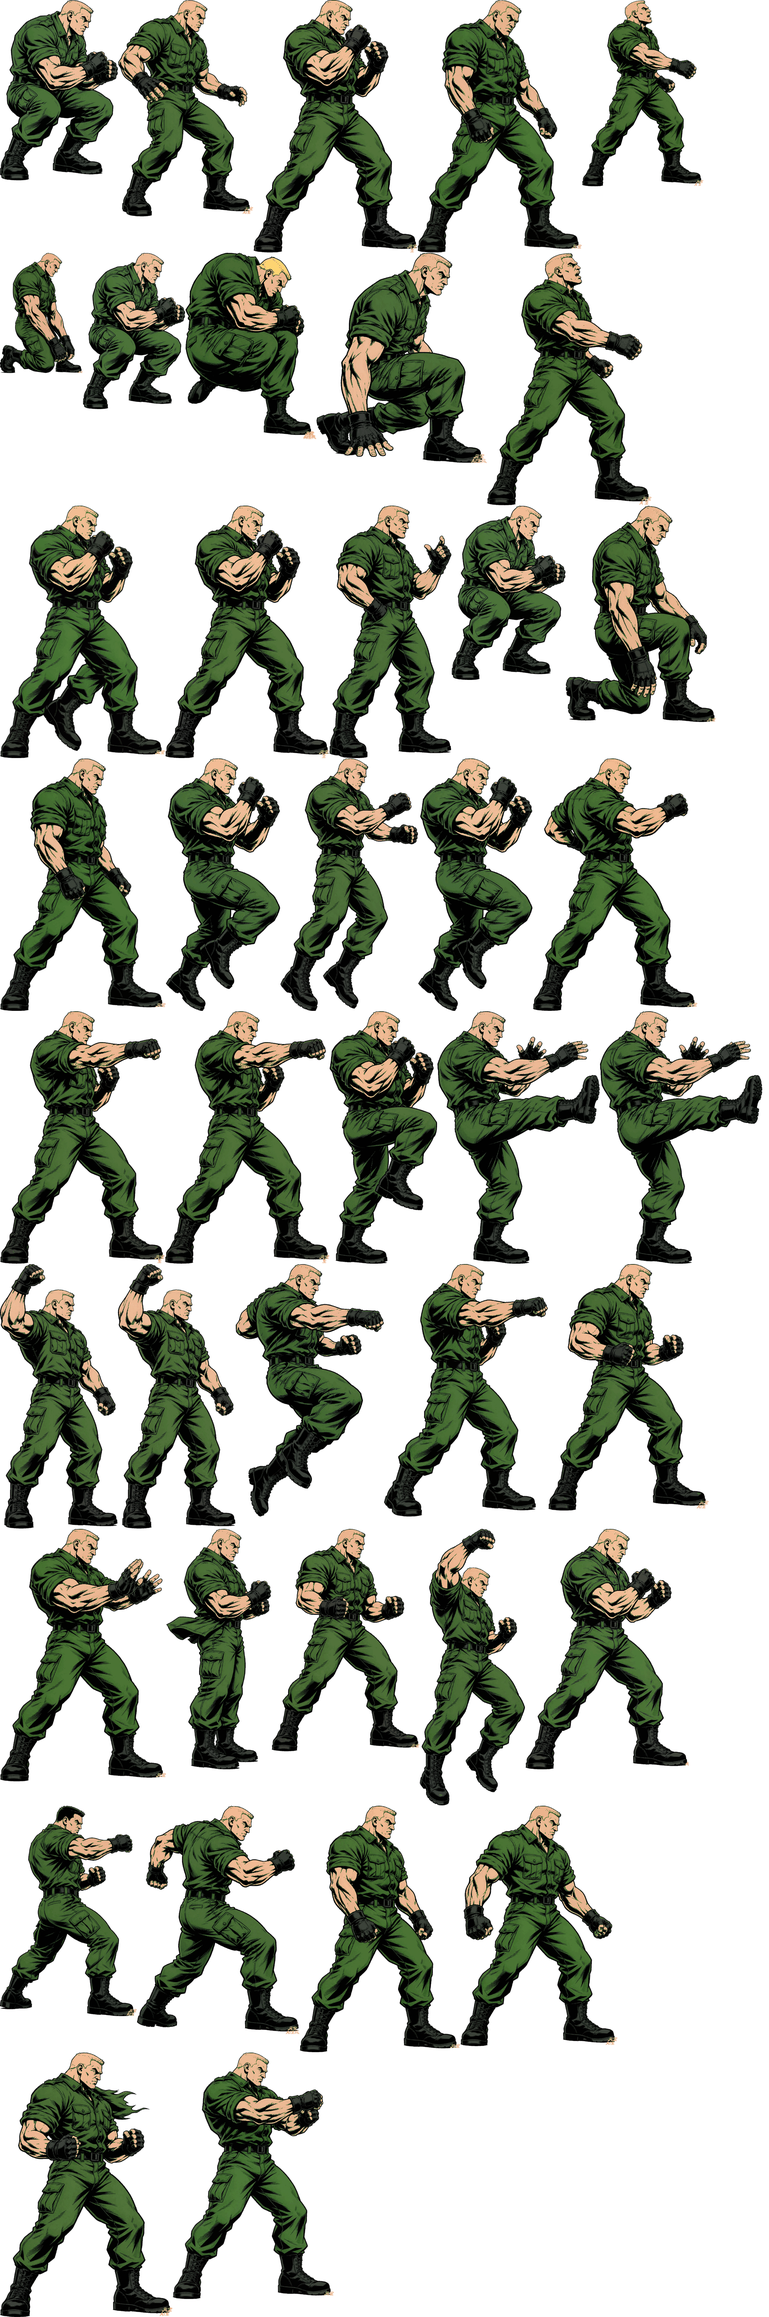
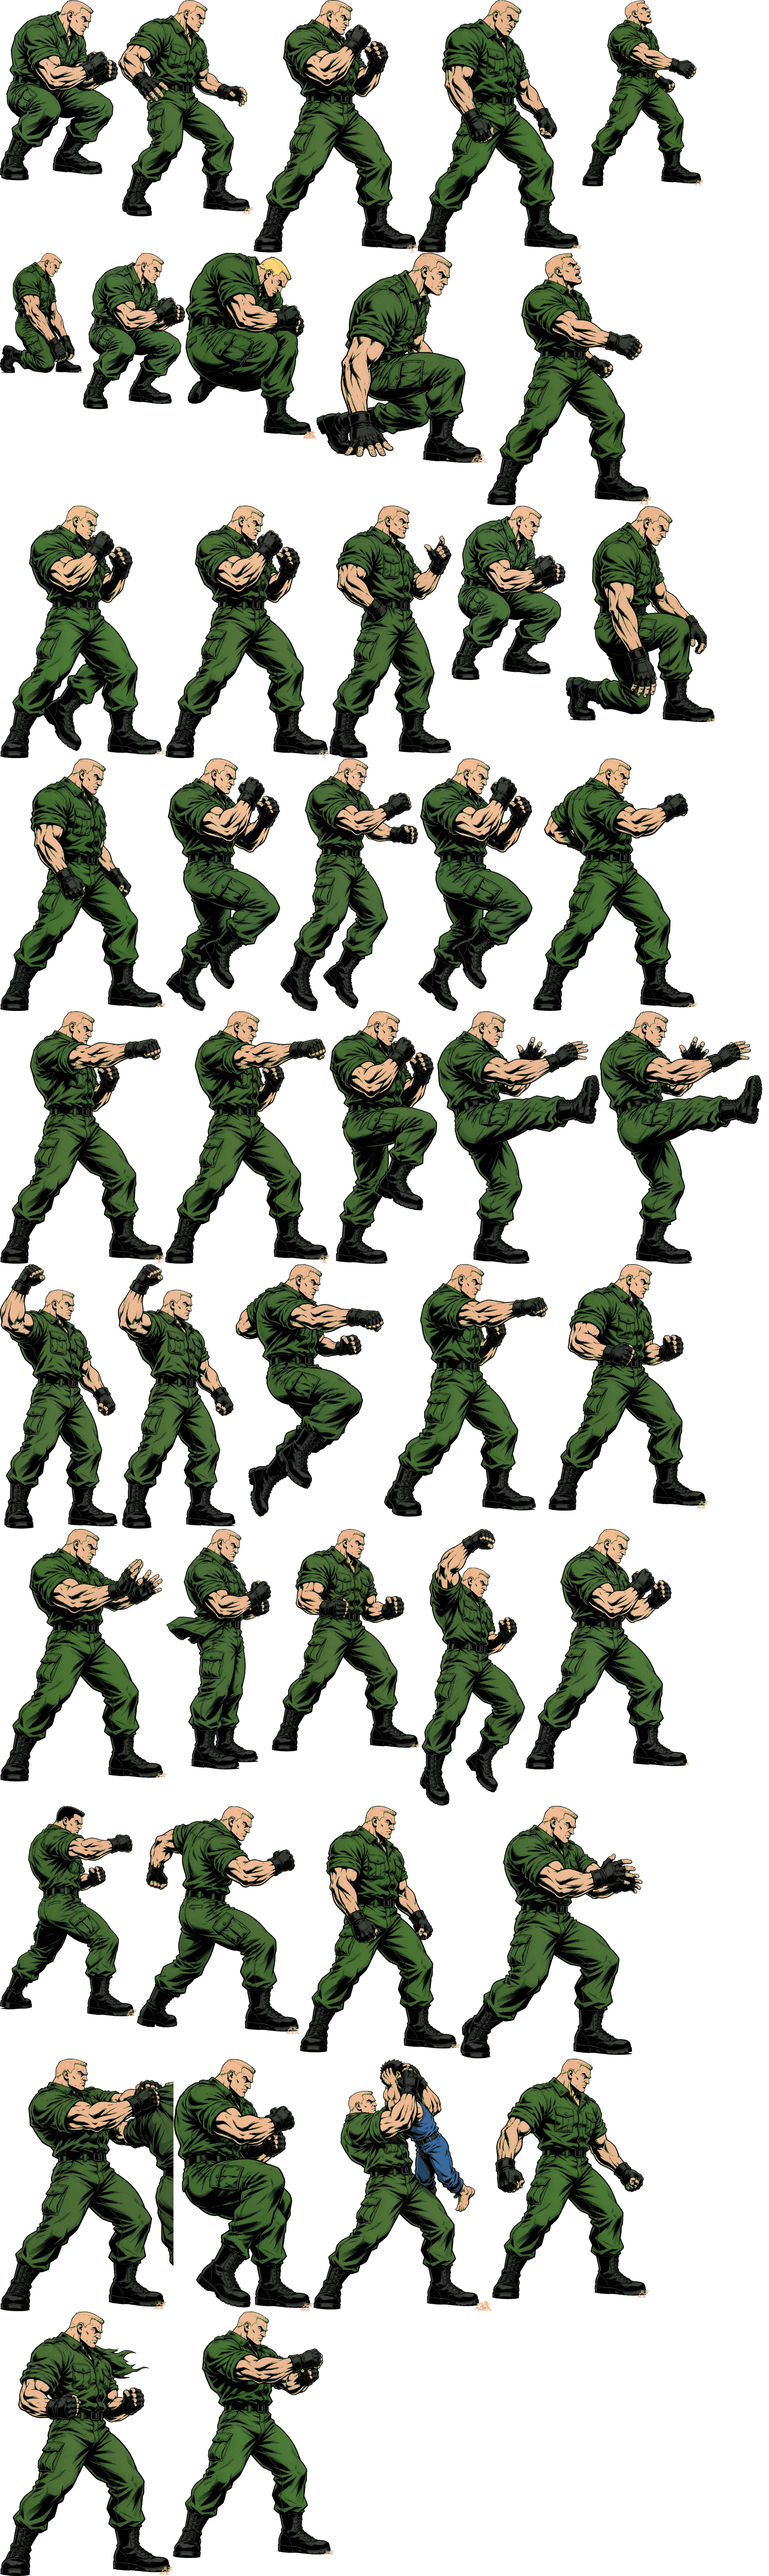
批次 20261027-0748 · [T265] 动作专属化 14/27：Ralf + Clark 各 4 招
改了什么：
- gen-poses 加 8 条（Ralf：橙红火花连打/拖气浪套索臂/飞扑拳/大片冲击波；
  Clark：双臂张开擒抱/抓住甩过头顶/抱人侧滚/高举对手）
- build-sheet 加 ralfspecial1-3 + ralfsuper、clarkspecial1-3 + clarksuper，
  并更新 EXCLUSIVE_OWNER
- poses.ts 加 8 个兜底（key = anim 名）
- ralf.ts / clark.ts 各改 5 处

Clark 是纯投技角色（5 个必杀数据里全是 throwStart），所以动作全部围绕"抓、摔、举"
——和 Ralf 的"拳拳到肉"形成对照。

意外收获：Clark 的投技图里 AI 主动画出了被摔的对手（尤其"高举过头顶"那张，
对手整个人在空中），表现力比预想强。

怎么验证的：打包两个角色都检查了错误（grep -qi error），失败=0；art:check 通过；
npm run check 995 条全绿

diff --git a/src/data/chars/ralf.ts b/src/data/chars/ralf.ts
@@ -27,7 +27,7 @@ export const RALF: CharDef = {
 
     // ---------------------------------------------------------------- 必杀技
     // バルカンパンチ：原地连打五段
-    '236A': mv('236A', 'バルカンパンチ', 'punchLight', 48, 'special', [
+    '236A': mv('236A', 'バルカンパンチ', 'ralfspecial1', 48, 'special', [
       hit('h1', { box: { x: 10, y: -64, w: 28, h: 14 }, frames: [7, 9], damage: 22, hitStun: 12, hitstop: 5, meterGain: 4 }),
       hit('h2', { box: { x: 10, y: -64, w: 28, h: 14 }, frames: [12, 14], damage: 20, hitStun: 12, hitstop: 5, meterGain: 4 }),
       hit('h3', { box: { x: 10, y: -64, w: 28, h: 14 }, frames: [17, 19], damage: 20, hitStun: 12, hitstop: 5, meterGain: 4 }),
@@ -44,7 +44,7 @@ export const RALF: CharDef = {
     ], { input: { motion: '236', buttons: ['A'] } }),
 
     // ラリアット：突进球
-    '214A': mv('214A', 'ラリアット', 'punchHeavy', 38, 'special', [
+    '214A': mv('214A', 'ラリアット', 'ralfspecial2', 38, 'special', [
       hit('h1', {
         box: { x: 14, y: -64, w: 34, h: 20 },
         frames: [10, 14],
@@ -58,7 +58,7 @@ export const RALF: CharDef = {
     ], { input: { motion: '214', buttons: ['A'] }, travel: 64, travelFrames: 15 }),
 
     // ダイビングパンチ：跳起下砸（中段）
-    '214B': mv('214B', 'ダイビングパンチ', 'punchHeavy', 40, 'special', [
+    '214B': mv('214B', 'ダイビングパンチ', 'ralfspecial3', 40, 'special', [
       hit('h1', {
         box: { x: 12, y: -62, w: 32, h: 24 },
         frames: [13, 17],
@@ -88,7 +88,7 @@ export const RALF: CharDef = {
     ], { input: { motion: '623', buttons: ['A'] }, invuln: [{ frames: [1, 5], kind: 'full' }] }),
 
     // ---------------------------------------------------------------- 超必杀
-    '236236A': mv('236236A', 'バリバリバルカンパンチ', 'special', 64, 'super', [
+    '236236A': mv('236236A', 'バリバリバルカンパンチ', 'ralfsuper', 64, 'super', [
       hit('h1', { box: { x: 10, y: -66, w: 30, h: 16 }, frames: [8, 10], damage: 30, hitStun: 14, hitstop: 6, meterGain: 0 }),
       hit('h2', { box: { x: 10, y: -66, w: 30, h: 16 }, frames: [14, 16], damage: 28, hitStun: 14, hitstop: 6, meterGain: 0 }),
       hit('h3', { box: { x: 10, y: -68, w: 32, h: 18 }, frames: [20, 22], damage: 28, hitStun: 14, hitstop: 6, meterGain: 0 }),
@@ -103,7 +103,7 @@ export const RALF: CharDef = {
       }),
     ], { input: { motion: '236236', buttons: ['A'] }, meterCost: 50 }),
 
-    '2363214A': mv('2363214A', 'ギャラクティカファントム', 'special', 72, 'super', [
+    '2363214A': mv('2363214A', 'ギャラクティカファントム', 'ralfsuper', 72, 'super', [
       hit('h1', {
         box: { x: 10, y: -66, w: 34, h: 22 },
         frames: [12, 16],

diff --git a/src/render/poses.ts b/src/render/poses.ts
@@ -610,6 +610,15 @@ export const POSE_LIBRARY: Record<string, Pose> = {
   leonaspecial2: { frameDuration: 1, loop: false, exclusive: 'leona', frames: [f({ head: p(3, -66), neck: p(3, -56), hip: p(0, -36), armFront: [p(12, -60), p(18, -30)], armBack: [p(-8, -50), p(-12, -42)] })] },
   leonaspecial3: { frameDuration: 1, loop: false, exclusive: 'leona', frames: [f({ head: p(4, -54), neck: p(4, -46), hip: p(-2, -28), armFront: [p(14, -34), p(24, -20)], armBack: [p(-10, -46), p(-16, -38)] })] },
   leonasuper: { frameDuration: 1, loop: false, exclusive: 'leona', frames: [f({ head: p(0, -70), neck: p(0, -60), hip: p(0, -38), armFront: [p(16, -58), p(30, -54)], armBack: [p(-14, -58), p(-28, -54)] })] },
+  // Ralf / Clark 专属必杀的兜底（key 与 anim 名一致）
+  ralfspecial1: { frameDuration: 1, loop: false, exclusive: 'ralf', frames: [f({ head: p(6, -68), neck: p(6, -58), hip: p(2, -37), armFront: [p(20, -56), p(32, -54)], armBack: [p(8, -56), p(20, -54)] })] },
+  ralfspecial2: { frameDuration: 1, loop: false, exclusive: 'ralf', frames: [f({ head: p(4, -66), neck: p(3, -56), hip: p(0, -36), armFront: [p(18, -58), p(30, -62)], armBack: [p(-14, -48), p(-20, -40)] })] },
+  ralfspecial3: { frameDuration: 1, loop: false, exclusive: 'ralf', frames: [f({ head: p(8, -64), neck: p(8, -54), hip: p(3, -34), armFront: [p(18, -50), p(30, -46)], armBack: [p(-10, -46), p(-16, -40)] })] },
+  ralfsuper: { frameDuration: 1, loop: false, exclusive: 'ralf', frames: [f({ head: p(6, -68), neck: p(6, -58), hip: p(2, -37), armFront: [p(20, -56), p(34, -54)], armBack: [p(10, -56), p(24, -54)] })] },
+  clarkspecial1: { frameDuration: 1, loop: false, exclusive: 'clark', frames: [f({ head: p(6, -64), neck: p(6, -54), hip: p(2, -34), armFront: [p(16, -52), p(26, -48)], armBack: [p(-10, -52), p(-20, -48)] })] },
+  clarkspecial2: { frameDuration: 1, loop: false, exclusive: 'clark', frames: [f({ head: p(-4, -60), neck: p(-4, -52), hip: p(-2, -32), armFront: [p(10, -62), p(14, -78)], armBack: [p(-8, -56), p(-12, -72)] })] },
+  clarkspecial3: { frameDuration: 1, loop: false, exclusive: 'clark', frames: [f({ head: p(4, -52), neck: p(4, -44), hip: p(0, -26), armFront: [p(12, -38), p(18, -30)], armBack: [p(-8, -38), p(-14, -30)] })] },
+  clarksuper: { frameDuration: 1, loop: false, exclusive: 'clark', frames: [f({ head: p(-2, -66), neck: p(-2, -56), hip: p(0, -38), armFront: [p(8, -78), p(10, -94)], armBack: [p(-8, -78), p(-10, -94)] })] },
   /** 升龙系：整个人向上冲，手臂上举 */
   specialUppercut: {
     frameDuration: 1,

diff --git a/src/data/chars/clark.ts b/src/data/chars/clark.ts
@@ -27,7 +27,7 @@ export const CLARK: CharDef = {
 
     // ---------------------------------------------------------------- 必杀技
     // マウントタックル：贴身抓取（摔投）
-    '236A': mv('236A', 'マウントタックル', 'throwStart', 46, 'throw', [
+    '236A': mv('236A', 'マウントタックル', 'clarkspecial1', 46, 'throw', [
       hit('h1', {
         box: { x: 4, y: -62, w: 32, h: 46 },
         frames: [6, 10],
@@ -42,7 +42,7 @@ export const CLARK: CharDef = {
     ], { input: { motion: '236', buttons: ['A'] }, blockable: false }),
 
     // フランケンシュタイナー：反摔
-    '63214B': mv('63214B', 'フランケンシュタイナー', 'throwStart', 52, 'throw', [
+    '63214B': mv('63214B', 'フランケンシュタイナー', 'clarkspecial2', 52, 'throw', [
       hit('h1', {
         box: { x: 4, y: -64, w: 32, h: 48 },
         frames: [8, 12],
@@ -57,7 +57,7 @@ export const CLARK: CharDef = {
     ], { input: { motion: '63214', buttons: ['B'] }, blockable: false }),
 
     // スーパーアルゼンチンバックブリーカー：更大伤害的抓取
-    '63214A': mv('63214A', 'スーパーアルゼンチン', 'throwStart', 56, 'throw', [
+    '63214A': mv('63214A', 'スーパーアルゼンチン', 'clarksuper', 56, 'throw', [
       hit('h1', {
         box: { x: 4, y: -64, w: 32, h: 48 },
         frames: [10, 14],
@@ -72,7 +72,7 @@ export const CLARK: CharDef = {
     ], { input: { motion: '63214', buttons: ['A'] }, blockable: false }),
 
     // ローリングクレイドル：突进摔（这段是打判定，不是抓）
-    '623A': mv('623A', 'ローリングクレイドル', 'punchHeavy', 40, 'special', [
+    '623A': mv('623A', 'ローリングクレイドル', 'clarkspecial3', 40, 'special', [
       hit('h1', {
         box: { x: 6, y: -86, w: 28, h: 58 },
         frames: [5, 11],
@@ -87,7 +87,7 @@ export const CLARK: CharDef = {
 
     // ---------------------------------------------------------------- 超必杀
     // アルティメットアルゼンチン：不可防的抓取超必杀
-    '236236A': mv('236236A', 'アルティメットアルゼンチン', 'throwStart', 72, 'super', [
+    '236236A': mv('236236A', 'アルティメットアルゼンチン', 'clarksuper', 72, 'super', [
       hit('h1', {
         box: { x: 4, y: -64, w: 34, h: 50 },
         frames: [8, 12],

diff --git a/docs/MOVE-PER-CHAR.md b/docs/MOVE-PER-CHAR.md
@@ -72,8 +72,8 @@ mv('236A', '百拾四式・荒咬', 'punchLight', 26, 'special', [...])
 | 8 | ロバート robert | 龍撃拳 / 幻影脚・連 / 昇龍脚 / 龍虎乱舞 | **done** |
 | 9 | ユリ yuri | 虎煌拳 / 百烈拳 / 百合脚 / 覇王翔吼拳 | **done** |
 | 10 | レオナ leona | ボルテックランチャー / ムーンスラッシャー / グランドセイバー / Vスラッシャー | **done** |
-| 11 | ラルフ ralf | バルカンパンチ / ギャラクティカファントム / ラルフキック / スーパーダブルウルフ | - |
-| 12 | クラーク clark | バルカンパンチ / アージェントナックル / シャイニングウィザード / ウルトラアージェント | - |
+| 11 | ラルフ ralf | バルカンパンチ / ラリアット / ダイビングパンチ / ギャラクティカファントム | **done** |
+| 12 | クラーク clark | マウントタックル / フランケンシュタイナー / ローリングクレイドル / アルティメットアルゼンチン | **done** |
 | 13 | アテナ athena | サイコボール / サイコソード / フェニックスアロー / シャイニングクリスタルビット | **done** |
 | 14 | 椎拳崇 kensou | 超球弾 / 龍爪撃 / 仙氣発勁 / 醒眼仙朧撃 | - |
 | 15 | 鎮元斎 chin | 気孔掌 / 大車輪 / 酔操牙 / 酔杯殺 | - |
@@ -90,7 +90,7 @@ mv('236A', '百拾四式・荒咬', 'punchLight', 26, 'special', [...])
 | 26 | 暴走庵 orochi_iori | 百八式・闇払い / 百式・鬼焼き / 屑風 / 禁千弐百拾八式・八稚女 | - |
 | 27 | 覚醒レオナ orochi_leona | グランドセイバー / ムーンストライカー / Xキャリバー / リボルブブラスター | - |
 
-**完成度：12 / 27**
+**完成度：14 / 27**
 
 ## 六、已完成记录
 
@@ -263,6 +263,31 @@ benispecial1: {
 | ムーンスラッシャー（214B） | `leonaspecial2` | 手臂拉出**弧月形光刃** |
 | グランドセイバー（623A） | `leonaspecial3` | 贴地斩、地面擦出光痕 |
 | Vスラッシャー（超必杀） | `leonasuper` | **巨大 V 字形光刃** |
+
+### 13. Ralf（done）
+
+军用格斗、爆发力、橙红色冲击：
+
+| 招式 | 专属动画 | 出图效果 |
+|---|---|---|
+| バルカンパンチ（236A） | `ralfspecial1` | 连打、拳前**橙红火花** |
+| ラリアット（214A） | `ralfspecial2` | 手臂横甩、拖出橙红气浪 |
+| ダイビングパンチ（214B） | `ralfspecial3` | 飞扑出拳、带火光 |
+| ギャラクティカファントム（超必杀） | `ralfsuper` | 双拳轰出、**大片橙红冲击波** |
+
+### 14. Clark（done）
+
+职业摔角、纯投技、力量型无属性——**这一批 AI 主动把"被摔的对手"也画进去了**：
+
+| 招式 | 专属动画 | 出图效果 |
+|---|---|---|
+| マウントタックル（236A） | `clarkspecial1` | 双臂张开扑上去 |
+| フランケンシュタイナー（63214B） | `clarkspecial2` | **抓住对手甩过头顶** |
+| ローリングクレイドル（623A） | `clarkspecial3` | 抱住对手侧滚翻转 |
+| アルティメットアルゼンチン（超必杀） | `clarksuper` | **把对手高举过头顶** |
+
+> Clark 的 5 个必杀**全是投技**（数据里 `throwStart`），所以动作全部围绕"抓、摔、举"，
+> 和 Ralf 那种"拳拳到肉"正好是一对对照。
 
 ## 七、执行约定
 

diff --git a/.continue/doing/59bce7.md b/.continue/doing/59bce7.md
@@ -1,0 +1,14 @@
+# 队列 · 会话 59bce766a368447cf9cf15c7e36322c83
+
+> 状态：执行中
+> 创建：2026-10-27
+> 批次：20261027-0748
+
+> 本批目标：动作专属化第 13、14 个角色（Ralf、Clark）。
+
+- [x] [T265] Ralf + Clark 各 4 个必杀专属动作（14/27）→ 出图 + 数据 + 打包验证
+  - 做了什么：①`gen-poses.mjs` 加 8 条（Ralf：橙红火花连打/拖气浪套索臂/飞扑拳/大片冲击波；Clark：双臂张开擒抱/抓住甩过头顶/抱人侧滚/高举对手）；②`build-sheet.mjs` 加 `ralfspecial1-3`+`ralfsuper`、`clarkspecial1-3`+`clarksuper`，并更新 `EXCLUSIVE_OWNER`；③`poses.ts` 加 8 个兜底（key = anim 名）；④`ralf.ts`/`clark.ts` 各改 5 处
+  - **Clark 是纯投技角色**（5 个必杀数据里全是 `throwStart`），所以动作全部围绕"抓、摔、举"——和 Ralf 的"拳拳到肉"形成对照
+  - **意外收获**：Clark 的投技图里 AI **主动画出了被摔的对手**（尤其"高举过头顶"那张，对手整个人在空中），表现力比预想强
+  - 验证：打包两个角色都检查了错误（`grep -qi error`），失败=0；`art:check` 通过；`npm run check` **995 条全绿**
+  - 批次：20261027-0748

diff --git a/.continue/TASKS.md b/.continue/TASKS.md
@@ -283,3 +283,4 @@
 - [x] T262 角色动作专属化 8/27：Andy + Joe 各 4 招；修 exclusive 动画被跨角色打包的 bug
 - [x] T263 角色动作专属化 10/27：獠（橙黄气）+ Robert（青白气）各 4 招
 - [x] T264 角色动作专属化 12/27：Yuri（粉白气）+ Leona（蓝白光刃）各 4 招
+- [x] T265 角色动作专属化 14/27：Ralf（橙红冲击）+ Clark（纯投技）各 4 招
